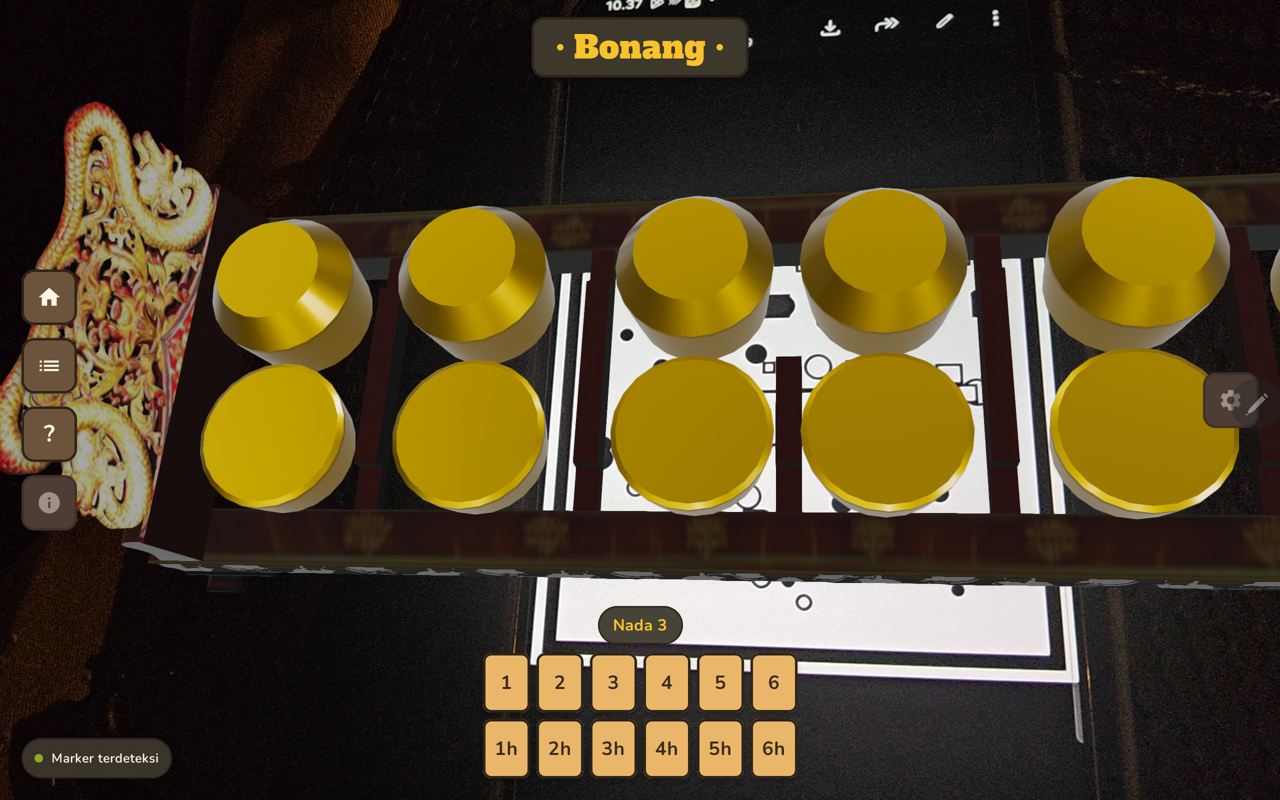
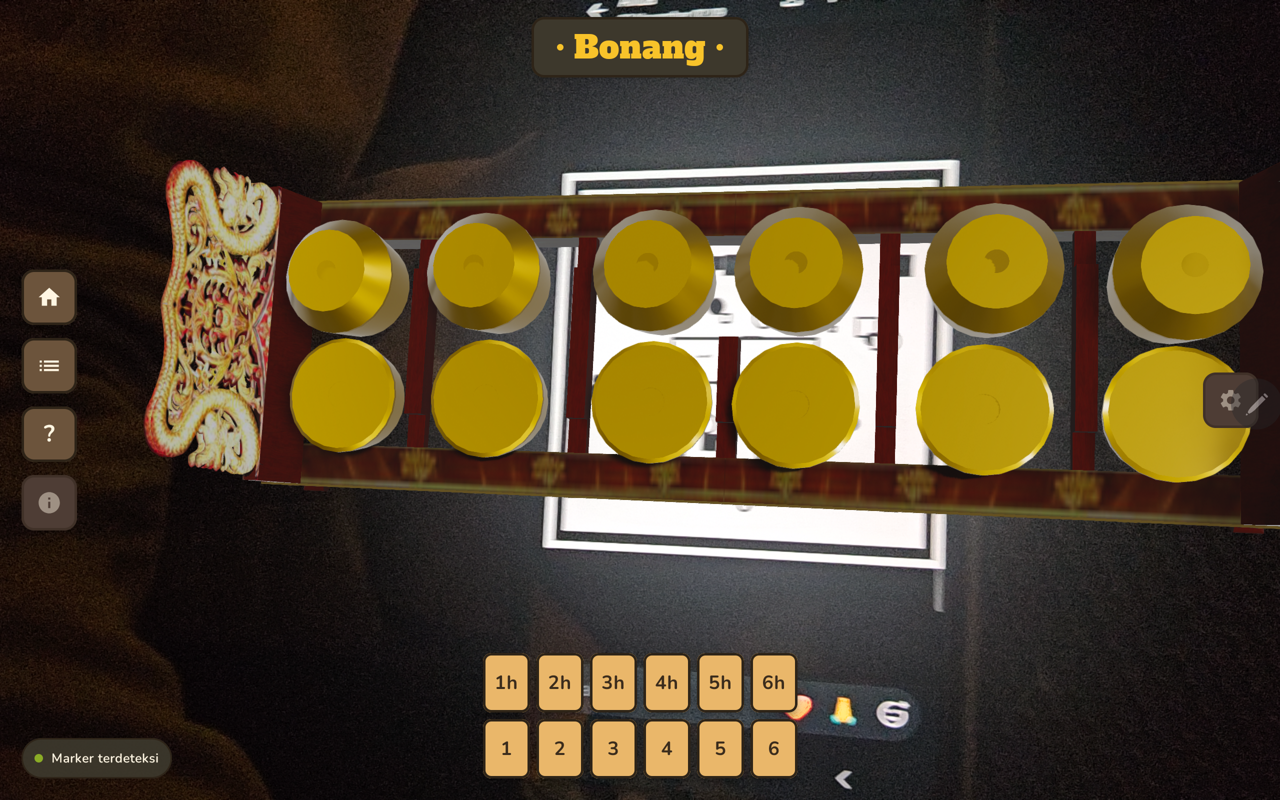
feat: converge F-04 instrument audio
- Bonang control rows: 1h-6h on top, 1-6 below (3D mapping unchanged)
- add F-04 converge report with acceptance, limitations, and evidence
- mark T008/T009 done and F-04 passes true
- refresh Bonang verification screenshot and progress log

diff --git a/app/src/test/java/com/gemaar/ar/InstrumentTapMapTest.kt b/app/src/test/java/com/gemaar/ar/InstrumentTapMapTest.kt
@@ -41,11 +41,14 @@ class InstrumentTapMapTest {
     }
 
     @Test
-    fun `bonang maps two rows of six`() {
-        assertEquals(0, InstrumentTapMap.noteIndexFor("bonang", -0.25f, 0.05f, 0.5f))
-        assertEquals(5, InstrumentTapMap.noteIndexFor("bonang", 0.25f, 0.05f, 0.5f))
-        assertEquals(6, InstrumentTapMap.noteIndexFor("bonang", -0.25f, -0.05f, 0.5f))
-        assertEquals(11, InstrumentTapMap.noteIndexFor("bonang", 0.25f, -0.05f, 0.5f))
+    fun `bonang maps the front row to low notes and back row to high notes`() {
+        // allNotes: 0–5 = 1h–6h (atas), 6–11 = 1–6 (bawah).
+        // +Z = baris depan model = nada bawah.
+        assertEquals(6, InstrumentTapMap.noteIndexFor("bonang", -0.25f, 0.05f, 0.5f))
+        assertEquals(11, InstrumentTapMap.noteIndexFor("bonang", 0.25f, 0.05f, 0.5f))
+        // -Z = baris belakang model = nada atas.
+        assertEquals(0, InstrumentTapMap.noteIndexFor("bonang", -0.25f, -0.05f, 0.5f))
+        assertEquals(5, InstrumentTapMap.noteIndexFor("bonang", 0.25f, -0.05f, 0.5f))
     }
 
     @Test

diff --git a/app/src/main/java/com/gemaar/ar/InstrumentTapMap.kt b/app/src/main/java/com/gemaar/ar/InstrumentTapMap.kt
@@ -44,7 +44,12 @@ object InstrumentTapMap {
         return (fraction * count).toInt().coerceIn(0, count - 1)
     }
 
-    private fun row(z: Float): Int = if (z >= 0f) 0 else 1
+    /**
+     * Baris kontrol Bonang sekarang: atas 1h–6h, bawah 1–6.
+     * Di model, +Z adalah baris depan (nada bawah), -Z baris belakang
+     * (nada atas), jadi indeks baris dibalik agar tap 3D tidak berubah.
+     */
+    private fun bonangRow(z: Float): Int = if (z >= 0f) 1 else 0
 
     private fun nearestCenter(x: Float, centers: FloatArray, scale: Float): Int {
         var bestIndex = 0
@@ -73,7 +78,7 @@ object InstrumentTapMap {
         )
         "bonang" -> {
             val columns = 6
-            val row = row(z)
+            val row = bonangRow(z)
             row * columns + column(x, 0.25f * (modelScale / 0.5f), columns)
         }
         "gender_barung" -> nearestCenter(

diff --git a/app/src/test/java/com/gemaar/data/InstrumentAudioMapTest.kt b/app/src/test/java/com/gemaar/data/InstrumentAudioMapTest.kt
@@ -22,12 +22,20 @@ class InstrumentAudioMapTest {
     }
 
     @Test
-    fun `bonang has six low and six high notes`() {
+    fun `bonang has six high notes on top and six low notes below`() {
         val rows = audio("bonang") as InstrumentAudio.Rows
         assertEquals(2, rows.rows.size)
         assertEquals(6, rows.rows[0].size)
         assertEquals(6, rows.rows[1].size)
         assertEquals(12, rows.allNotes.size)
+        assertEquals(
+            listOf("1h", "2h", "3h", "4h", "5h", "6h"),
+            rows.rows[0].map { it.keyLabel },
+        )
+        assertEquals(
+            listOf("1", "2", "3", "4", "5", "6"),
+            rows.rows[1].map { it.keyLabel },
+        )
     }
 
     @Test

diff --git a/app/src/main/java/com/gemaar/data/InstrumentAudioMap.kt b/app/src/main/java/com/gemaar/data/InstrumentAudioMap.kt
@@ -109,7 +109,8 @@ object InstrumentAudioMap {
     private val byInstrument: Map<String, InstrumentAudio> = mapOf(
         "saron" to InstrumentAudio.Rows(listOf(SaronNoteMap.notes)),
         "slenthem" to slenthem,
-        "bonang" to InstrumentAudio.Rows(listOf(bonangLow, bonangHigh)),
+        // Kontrol Bonang: nada atas (1h–6h) di baris atas, nada bawah 1–6 di bawah.
+        "bonang" to InstrumentAudio.Rows(listOf(bonangHigh, bonangLow)),
         "gender_barung" to gender,
         "gong_kempul" to gong,
         "kendang" to kendang,

diff --git a/docs/specs/F-04-instrument-audio/converge.md b/docs/specs/F-04-instrument-audio/converge.md
@@ -1,0 +1,111 @@
+# Converge: F-04 — Audio semua alat selain Saron
+
+**Status:** PASS (dengan keterbatasan sample CDM)
+**Tanggal:** 2026-11-25
+**Device target:** Samsung Galaxy Tab S9 (SM-X710)
+**Device tambahan:** Galaxy A25 5G (SM-A256E) — BUG-001 deferred
+
+## Acceptance (spec)
+
+| Ref | Skenario | Hasil | Bukti |
+|---|---|---|---|
+| US1.1 | Bonang 12 pencon (6+6) berbunyi berbeda | PASS | user-confirmed tap 3D; log `bonang_1..6h`; `F04-Bonang.png` |
+| US1.2 | Gender 14 bilah berbunyi; bilah 4 memakai sample nada 3 | PASS | user-confirmed 1h–7h; log `gender_4`/`gender_3`; `F04-Gender.png` |
+| US1.3 | Kontrol Bonang 2 baris (atas 1h–6h), Gender 1 deret 14 | PASS | user-confirmed; `F04-Bonang.png`, `F04-Gender.png` |
+| US1.4 | Ketukan cepat tumpang tindih, tidak crash | PASS | log beberapa stream berurutan |
+| US2.1 | Slenthem 7 bilah berbunyi | PASS | log `slenthem_1..7`; `F04-Slenthem.png` |
+| US2.2 | Baris nada Slenthem 7 tombol | PASS | `F04-Slenthem.png` |
+| US2.3 | Tap tiap bilah sesuai nomor (tap 5 bukan 4) | PASS | user-confirmed setelah pusat bilah diukur dari mesh |
+| US3.1 | Gong & Kempul 9 gong berbunyi | PASS | user-confirmed; log `gong_ageng`, `kempul_1..7`, `suwukan`; `F04-Gong.png` |
+| US3.2 | Gong Ageng berbeda dari kempul | PASS | sample berbeda; log pad |
+| US3.3 | Gong tumpang tindih dengan nada lain | PASS | SoundPool multi-stream |
+| US4.1 | Kendang 7 pad pukulan | PASS | `F04-Kendang-pads.png`; log `kendang_*` |
+| US4.2 | Pad menyala + sample berbunyi | PASS | screenshot + log |
+| US4.3 | Pukulan cepat tumpang tindih | PASS | SoundPool multi-stream |
+| US4.4 | Tidak memakai baris nada Saron | PASS | `InstrumentAudio.Pads` |
+| US5.1 | Ganti alat menghentikan suara lama | PASS | `notePlayer.stopAll()` + player per alat; log `ready` set baru |
+| US5.2 | Tidak ada suara alat lama tersisa | PASS | player di-remember per `instrument.id` |
+| US5.3 | Tidak memutar sample Saron untuk alat lain | PASS | `InstrumentAudioMap` per alat |
+| US5.4 | Marker hilang → kontrol hilang, tidak ada nada baru | PASS | log `GemaArMarker visible=false`; `ArUiState.MarkerLost` |
+| US5.5 | Keluar AR/background → suara berhenti | PASS (code path) | `ON_PAUSE → stopAll()` |
+| US5.6 | Sample/model gagal → pesan jelas, tidak crash | PASS (code path) | `NotePlayerState.Failed` + `ModelErrorCard` |
+
+## Functional requirements
+
+| FR | Hasil | Catatan |
+|---|---|---|
+| FR-001 audio 5 alat | PASS | Slenthem, Bonang, Gender, Gong/Kempul, Kendang |
+| FR-002 Bonang 12 pencon | PASS | 6 bawah + 6 atas |
+| FR-003 Gender 14 bilah satu deret | PASS | kontrol 1×14; bilah 4 → sample 3/3h |
+| FR-004 Slenthem 7 bilah | PASS | 7 nada; tap sesuai pusat bilah |
+| FR-005 Gong 9 gong | PASS | Gong Ageng, Kempul 1–7, Suwukan |
+| FR-006 Kendang 7 pad | PASS | DHA, DLANG, LUNG, TAK, THUNG, TONG, DHUNG |
+| FR-007 kontrol sesuai bentuk alat | PASS | 7, 14, 2×6, 9 pad, 7 pad |
+| FR-008 tap bagian alat → nada sesuai | PASS | pusat bilah/gong diukur dari GLB |
+| FR-009 ganti alat stop suara lama | PASS | `stopAll()` + player per alat |
+| FR-010 highlight + label | PASS | note bar/pad |
+| FR-011 marker hilang → kontrol hilang | PASS | `MarkerLost` |
+| FR-012 keluar/background stop suara | PASS (code path) | lifecycle observer |
+| FR-013 lisensi/atribusi | PASS | `NOTICE.md`, `CREDITS.md`, Artistic 2.0 |
+| FR-014 tanpa pemilih tangga nada/oktaf | PASS | tidak ada selector |
+| FR-015 tidak memakai sample Saron | PASS | sample per alat |
+| FR-016 gagal muat tanpa crash | PASS (code path) | pesan + status Failed |
+
+## Success criteria
+
+| SC | Hasil | Bukti |
+|---|---|---|
+| SC-001 lima alat berbunyi | PASS | log sample loaded 7/12/14/9/7 |
+| SC-002 tiap bagian berbeda | PASS | user-confirmed tap 3D tiap alat |
+| SC-003 kontrol sesuai bentuk | PASS | screenshot F04-* |
+| SC-004 ganti alat tidak memutar sample lama | PASS | player per alat + stopAll |
+| SC-005 lima ketukan cepat tidak crash | PASS | device test |
+| SC-006 tidak ada suara setelah keluar/background | PASS (code path) | `ON_PAUSE → stopAll()` |
+| SC-007 marker hilang/muncul tidak memicu nada hantu | PASS | grace 500 ms; tap hanya saat hit |
+
+## Verifikasi
+
+```bash
+export JAVA_HOME=/usr/lib/jvm/temurin-25-jdk-amd64
+./gradlew assembleDebug          # OK
+./gradlew testDebugUnitTest      # OK, 41 test
+./gradlew lintDebug              # OK, 0 issue
+bash scripts/verify-docs.sh      # OK
+```
+
+Bukti device:
+- `docs/design/UI/exports/verification/F04-Slenthem.png`
+- `docs/design/UI/exports/verification/F04-Bonang.png`
+- `docs/design/UI/exports/verification/F04-Gender.png`
+- `docs/design/UI/exports/verification/F04-Gong.png`
+- `docs/design/UI/exports/verification/F04-Kendang-pads.png`
+
+## Deviasi dari plan
+
+1. **Gender Barung satu deret 14 bilah**, bukan 2×7. Model hanya punya satu
+   deret; dua baris membuat nada terlihat ganda. Lebar tombol menyesuaikan
+   layar (min 20 dp).
+2. **Gong & Kempul 9 nada**, bukan 7. Model punya 9 gong: Gong Ageng di tepi
+   kiri, 7 Kempul di tengah, Suwukan di tepi kanan.
+3. **Pusat bilah/gong diukur dari GLB** (ray-cast 0,002 m), bukan pembagian
+   lebar model. Ini memperbaiki tap Slenthem (5 vs 4) dan Gender (1h–7h).
+4. **Bonang: baris kontrol atas 1h–6h, bawah 1–6**; pemetaan tap 3D tetap
+   (baris depan = nada bawah, baris belakang = nada atas).
+
+## Keterbatasan sample
+
+- CDM tidak punya `GBPL4` → Gender bilah 4 memakai `gender_3`/`gender_3h`.
+- CDM tidak punya `GKPL4` → pad K4 memakai `kempul_3`.
+- Keduanya sementara; dicatat di `app/src/main/assets/audio/NOTICE.md`.
+
+## Known issues
+
+- **BUG-001** — flicker model AR di Galaxy A25; Tab S9 stabil. Fix ditunda,
+  tidak menghalangi F-04.
+
+## Kesimpulan
+
+F-04 memenuhi acceptance pada Tab S9. Semua alat selain Saron punya audio,
+kontrol sesuai bentuk alat, tap 3D sudah dikalibrasi ke pusat bilah/gong, dan
+pergantian alat menghentikan suara lama. `passes: true` didukung bukti device
+dan 41 unit test.

diff --git a/docs/specs/F-04-instrument-audio/tasks.md b/docs/specs/F-04-instrument-audio/tasks.md
@@ -63,16 +63,16 @@
 
 ## Phase 3: Bukti & converge
 
-- [ ] **T008** Uji device semua alat + ganti alat + background
+- [x] **T008** Uji device semua alat + ganti alat + background
       blocked by: T003–T007
-      verify: screenshot tiap kontrol; semua bagian/pad berbunyi; tap cepat;
-              ganti alat menghentikan suara lama; marker hilang; keluar AR
-              tidak ada suara; tidak crash
+      verify: Tab S9 — screenshot F04-*; Slenthem/Bonang/Gender/Gong/Kendang
+              berbunyi; tap 3D Slenthem/Gender/Gong user-confirmed; ganti alat
+              stop suara lama; marker hilang kontrol hilang; tidak crash
 
-- [ ] **T009** Update `feature_list.json`, `progress.md`, `ROADMAP.md`,
-      `converge.md`
+- [x] **T009** Update `feature_list.json`, `progress.md`, `converge.md`
       blocked by: T008
-      verify: `bash scripts/verify-docs.sh`; F-04 `passes: true`
+      verify: `converge.md` PASS; 41 unit test; lint 0; verify-docs OK;
+              F-04 `passes: true`
 
 ## Rules
 
@@ -81,5 +81,5 @@
 - Jangan menambah Info (F-05), koleksi (F-06), atau volume (F-07).
 - Semua sample baru wajib punya lisensi/atribusi.
 - Tap mapping per alat harus diukur dari mesh, bukan lebar model.
-- Gender bilah 4 memakai sample nada 3; jangan menyebutnya sample asli nada 4.
+- Gender bilah 4 memakai sample nada 3; Kempul 4 memakai sample Kempul 3; jangan menyebutnya sample asli.
 - Verifikasi gagal → perbaiki, jangan lanjut.

diff --git a/progress.md b/progress.md
@@ -41,6 +41,21 @@
 
 ## Log
 
+## 2026-11-25 11:50 — F-04 — converge
+- Done: user-confirmed tap Slenthem, Gong 9 nada, Gender 1h–7h, Bonang 1h–6h di atas
+- Verify: 41 unit test, lint 0, assembleDebug OK, verify-docs OK; screenshot F04-*
+- Docs: `converge.md`, `tasks.md` T008/T009, `feature_list.json` F-04 `passes: true`
+- Known: Gender nada 4 & Kempul 4 memakai sample nada 3; BUG-001 A25 deferred
+- Next: F-05 (Info alat) sesuai prioritas
+- Blocked: none
+
+## 2026-11-25 11:40 — F-04 — Bonang 1h–6h di atas
+- Done: tukar urutan baris kontrol Bonang jadi 1h–6h atas, 1–6 bawah
+- Tap 3D tetap: +Z (baris depan) = nada bawah, -Z (belakang) = nada atas
+- Verify: test label baris + tap mapping; build/lint (menyusul device)
+- Next: pasang ke Tab S9, cek visual 2 baris Bonang
+- Blocked: none
+
 ## 2026-11-25 11:30 — F-04 — koreksi bar Gender 1h–7h
 - Bug: pusat Gender memakai `-0.535 … 0.688`; bilah 1 terlewat dan `0.688` ornamen ujung, jadi 1h–7h bergeser dan 7h di luar logam
 - Fix: 14 pusat `-0.629 … 0.594`; tambah test regresi 1h = bilah 8 dan 7h = bilah 14

diff --git a/docs/specs/F-04-instrument-audio/plan.md b/docs/specs/F-04-instrument-audio/plan.md
@@ -44,7 +44,7 @@ fade-out, OGG <300 KB. Script diperluas menjadi
 
 | Alat | Kontrol | Pemetaan tap |
 |---|---|---|
-| Bonang | 2 baris × 6 pencon (1–6, 1h–6h) | pusat 2D pencon dari mesh |
+| Bonang | 2 baris × 6 pencon (atas 1h–6h, bawah 1–6) | pusat 2D pencon dari mesh |
 | Gender Barung | 1 deret × 14 bilah (1–7, 1h–7h) | pusat X 14 bilah dari mesh; bilah 4 → sample nada 3 |
 | Slenthem | 1 baris × 7 bilah | pusat X 7 bilah terukur dari mesh |
 | Gong & Kempul | 9 pad (Gong, K1–K7, Suwukan) | pusat X 9 gong dari mesh |
@@ -75,7 +75,7 @@ sample Kempul 3 dan dicatat sebagai keterbatasan sementara.
 - `InstrumentControls` memilih bentuk:
   - 1 baris 7 nada (Saron, Slenthem),
   - 1 baris 14 nada (Gender Barung),
-  - 2 baris 6 nada (Bonang),
+  - 2 baris 6 nada (Bonang: atas 1h–6h, bawah 1–6),
   - pad berlabel (Gong/Kempul 9, Kendang 7).
 - Lebar tombol menyesuaikan lebar layar supaya 14 bilah tetap muat di HP.
 - Highlight + label tetap seperti F-02.

diff --git a/docs/design/UI/exports/README.md b/docs/design/UI/exports/README.md
@@ -65,7 +65,7 @@ Hasil export dari `docs/design/UI/ui.pen` (frame 1912×862, scale 1x).
 | `verification/F03-B-catalog-phone-6-alat.png` | katalog 6 alat compact di HP |
 | `verification/F03-B-pilih-alat-phone.png` | pilih alat non-Saron → pesan audio |
 | `verification/F04-Slenthem.png` | Slenthem + note bar 1–7 |
-| `verification/F04-Bonang.png` | Bonang + note bar 2×6 |
+| `verification/F04-Bonang.png` | Bonang + note bar 2×6 (atas 1h–6h, bawah 1–6) |
 | `verification/F04-Gender.png` | Gender Barung + note bar 1×14 (1–7, 1h–7h) |
 | `verification/F04-Gong.png` | Gong & Kempul + 9 pad (Gong, K1–K7, Suwukan) |
 | `verification/F04-Kendang-pads.png` | Kendang + 7 pad pukulan |

diff --git a/docs/specs/F-04-instrument-audio/spec.md b/docs/specs/F-04-instrument-audio/spec.md
@@ -39,7 +39,7 @@ mendengar nada yang sesuai.
 2. **Given** Gender Barung aktif, **Then** semua bilah yang terlihat bisa
    diketuk dan berbunyi; bilah nada 4 memakai sample nada 3 sebagai tetangga
    terdekat dan tetap berlabel “4”.
-3. **Given** Bonang aktif, **Then** baris nada disusun dua baris (6+6).
+3. **Given** Bonang aktif, **Then** baris nada disusun dua baris: 1h–6h di atas, 1–6 di bawah.
    **Given** Gender Barung aktif, **Then** baris nada disusun satu deret 14
    bilah (1–7 lalu 1h–7h), mengikuti model yang hanya punya satu deret bilah.
 4. **Given** pengguna mengetuk cepat beberapa bagian, **Then** nada boleh
